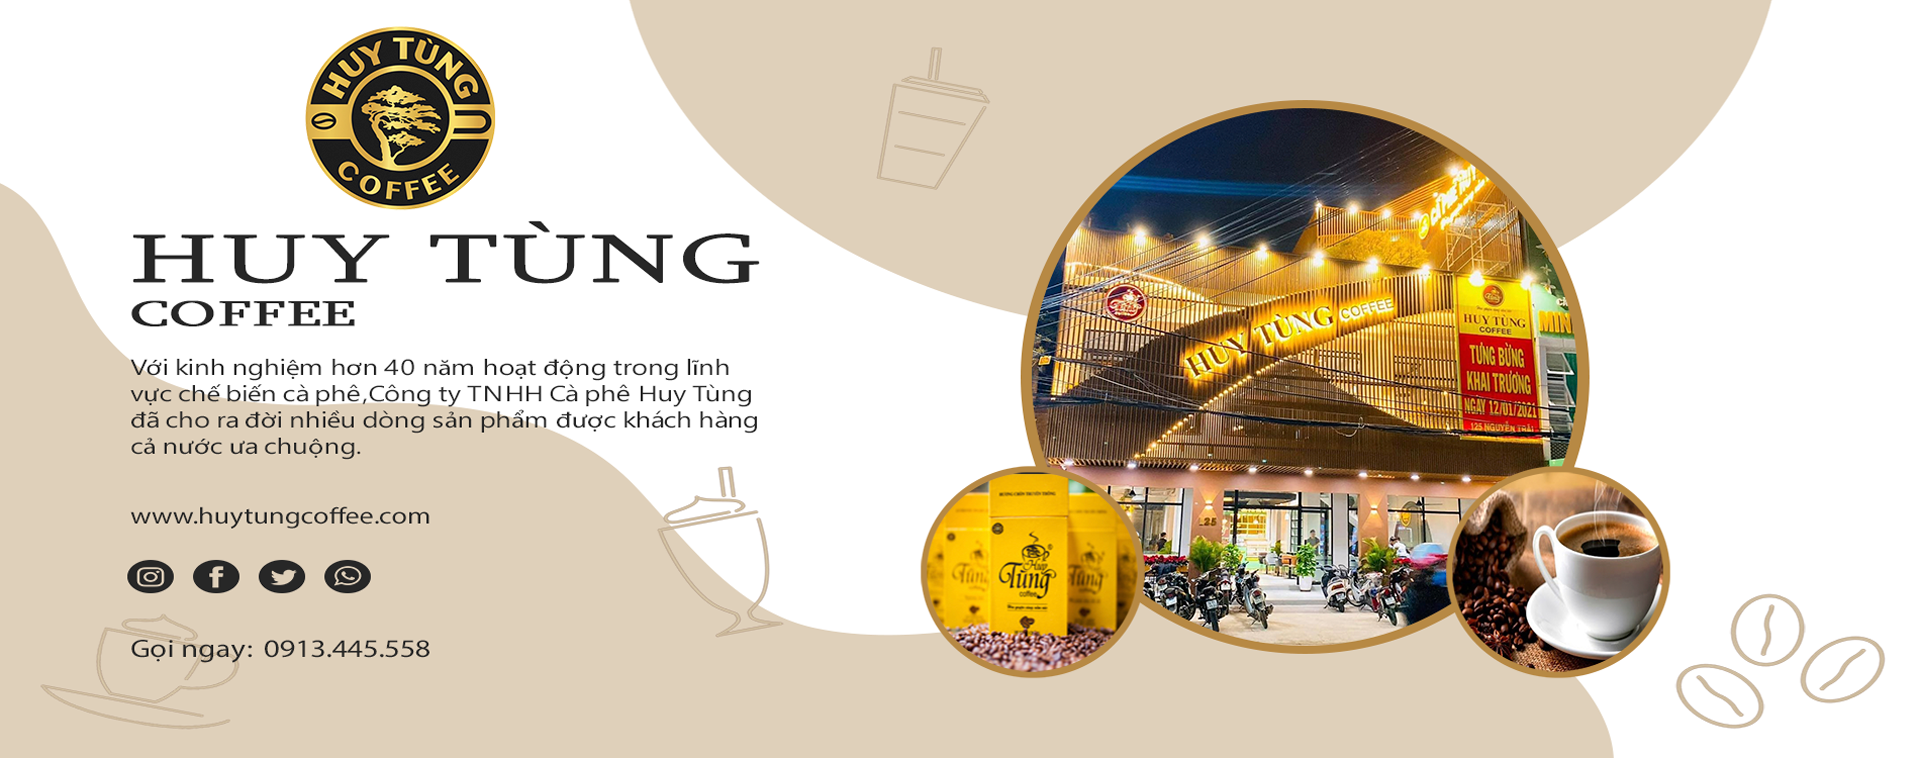
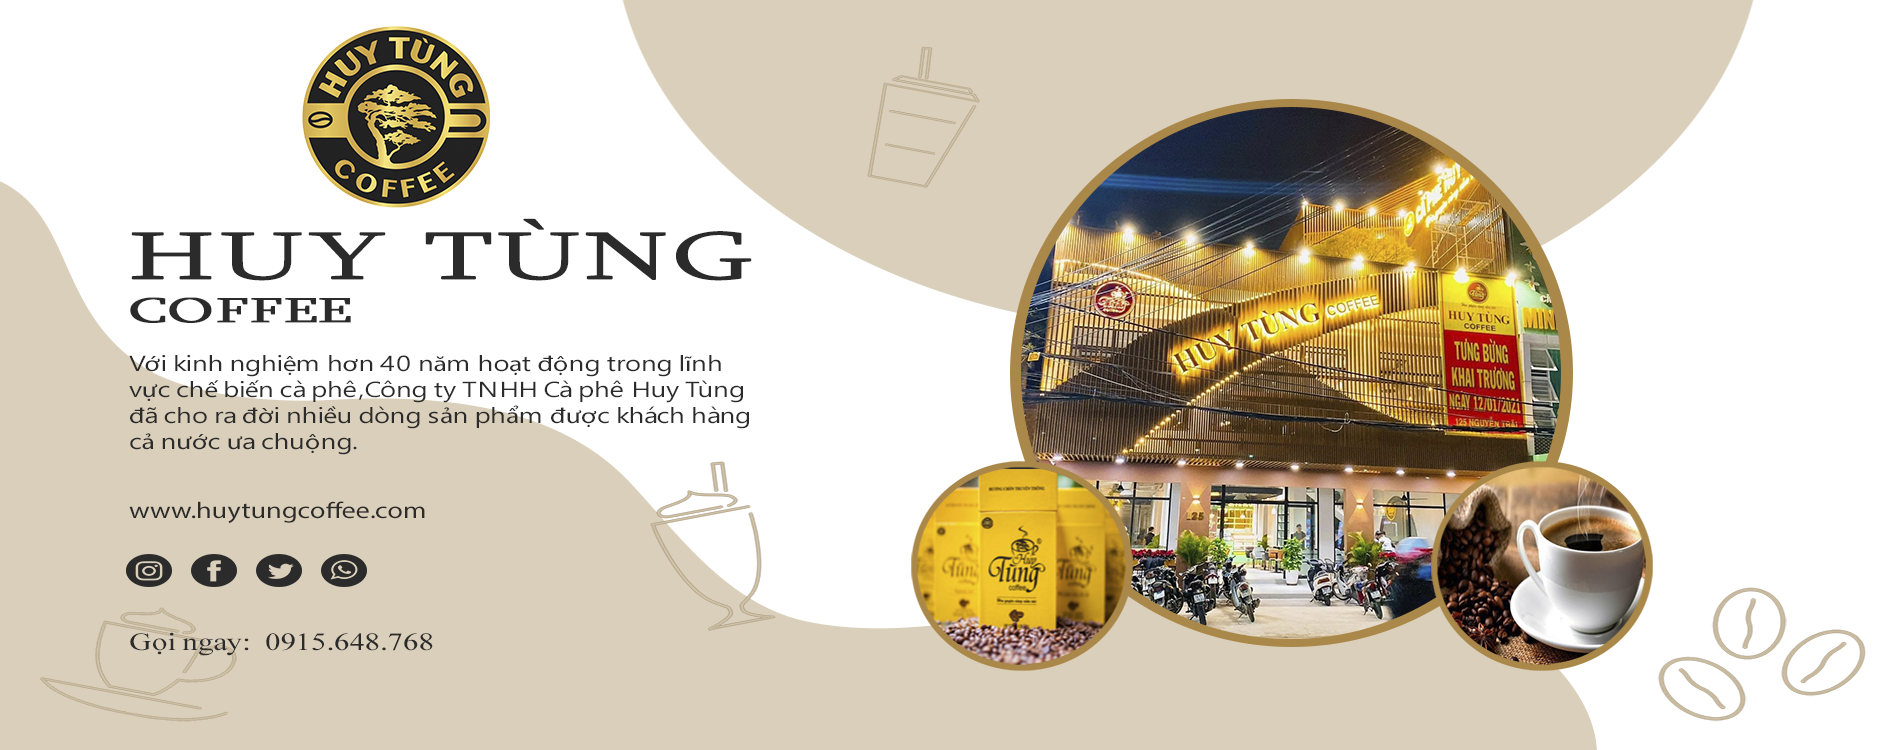
update

diff --git a/public/assets/css/module.scss.css b/public/assets/css/module.scss.css
@@ -118,7 +118,22 @@
         height: 200px;
     }
 }
+@media (min-width: 767px) {
+    .home-slider iframe {
+        height: 300px;
+    }
+}
+@media (min-width: 1023px) {
+    .home-slider iframe {
+        height: 400px;
+    }
+}
 
+@media (min-width: 1199px) {
+    .home-slider iframe {
+        height: 750px;
+    }
+}
 .section_tab_product h2 {
     font-size: 1.71429em;
     text-transform: uppercase;

diff --git a/app/Views/frontend/product/view.php b/app/Views/frontend/product/view.php
@@ -29,7 +29,7 @@
                     <div class="swiper-container gallery-top swiper-container-initialized swiper-container-horizontal">
                         <div class="swiper-wrapper" id="lightgallery" aria-live="polite">
                             <a class="swiper-slide" title="Click để xem" role="group">
-                                <img src="<?= base_url(isset($info->image->src) ? $info->image->src : "assets/images/placeholder.png") ?>" data-src="<?= base_url(isset($info->image->src) ? $info->image->src : "assets/images/placeholder.png") ?>" alt="Cà phê Trứng" data-image="<?= base_url(isset($info->image->src) ? $info->image->src : "assets/images/placeholder.png") ?>" class="img-responsive mx-auto d-block lazyload loaded" data-was-processed="true">
+                                <img src="<?= base_url(isset($info->image_url) ? $info->image_url : "assets/images/placeholder.png") ?>" data-src="<?= base_url(isset($info->image_url) ? $info->image_url : "assets/images/placeholder.png") ?>" alt="Cà phê Trứng" data-image="<?= base_url(isset($info->image_url) ? $info->image_url : "assets/images/placeholder.png") ?>" class="img-responsive mx-auto d-block lazyload loaded" data-was-processed="true">
                             </a>
                             <?php foreach ($info->image_other as $row) : ?>
                                 <a class="swiper-slide" title="Click để xem" role="group">
@@ -42,7 +42,7 @@
                     <div class="swiper-container gallery-thumbs swiper-container-initialized swiper-container-horizontal swiper-container-thumbs">
                         <div class="swiper-wrapper" id="swiper-wrapper-7123e85545c32ce7" aria-live="polite">
                             <div class="swiper-slide swiper-slide-visible swiper-slide-active swiper-slide-thumb-active" role="group">
-                                <img src="<?= base_url(isset($info->image->src) ? $info->image->src : "assets/images/placeholder.png") ?>" data-src="<?= base_url(isset($info->image->src) ? $info->image->src : "assets/images/placeholder.png") ?>" alt="Cà phê Trứng" data-image="<?= base_url(isset($info->image->src) ? $info->image->src : "assets/images/placeholder.png") ?>" class="lazyload loaded" data-was-processed="true">
+                                <img src="<?= base_url(isset($info->image_url) ? $info->image_url : "assets/images/placeholder.png") ?>" data-src="<?= base_url(isset($info->image_url) ? $info->image_url : "assets/images/placeholder.png") ?>" alt="Cà phê Trứng" data-image="<?= base_url(isset($info->image_url) ? $info->image_url : "assets/images/placeholder.png") ?>" class="lazyload loaded" data-was-processed="true">
                             </div>
                             <?php foreach ($info->image_other as $row) : ?>
                                 <div class="swiper-slide swiper-slide-visible swiper-slide-active swiper-slide-thumb-active" role="group">
@@ -60,8 +60,8 @@
                     <div class="product-single-gallery">
                         <div class="content--slide-images-2">
                             <div class="single-image">
-                                <a href="<?= base_url(isset($info->image->src) ? $info->image->src : "assets/images/placeholder.png") ?>" data-fancybox="product-log-gallery-01" tabindex="0">
-                                    <span class="h-rectangle"><span class="h-rectangle__inner h-bg-cover" style="background-image: url(<?= base_url(isset($info->image->src) ? $info->image->src : "assets/images/placeholder.png") ?>);"></span></span>
+                                <a href="<?= base_url(isset($info->image_url) ? $info->image_url : "assets/images/placeholder.png") ?>" data-fancybox="product-log-gallery-01" tabindex="0">
+                                    <span class="h-rectangle"><span class="h-rectangle__inner h-bg-cover" style="background-image: url(<?= base_url(isset($info->image_url) ? $info->image_url : "assets/images/placeholder.png") ?>);"></span></span>
                                 </a>
                             </div>
                             <?php foreach ($info->image_other as $row) : ?>
@@ -140,7 +140,7 @@
                                         <div class="product-item position-relative product-item-main mb-3">
                                             <a href="<?= url_product($row->id) ?>" class="thumb flip effect-ming d-block" title="<?= $row->{pick_language($row, 'name_')} ?>">
                                                 <div class="item-image position-relative w-100 m-0 aspect ratio1by1" wfd-id="602">
-                                                    <img src="<?= base_url(isset($row->image->src) ? $row->image->src : "assets/images/placeholder.png") ?>" data-src="<?= base_url(isset($row->image->src) ? $row->image->src : "assets/images/placeholder.png") ?>" class="d-block image-1 img img-contain position-absolute w-100 h-100 lazy" alt="<?= $row->{pick_language($row, 'name_')} ?>">
+                                                    <img src="<?= base_url(isset($row->image_url) ? $row->image_url : "assets/images/placeholder.png") ?>" data-src="<?= base_url(isset($row->image_url) ? $row->image_url : "assets/images/placeholder.png") ?>" class="d-block image-1 img img-contain position-absolute w-100 h-100 lazy" alt="<?= $row->{pick_language($row, 'name_')} ?>">
                                                     <div class="w-100 h-100 overlay" wfd-id="603"></div>
                                                 </div>
                                             </a>

diff --git a/app/Views/backend/product/edit.php b/app/Views/backend/product/edit.php
@@ -221,6 +221,7 @@
 <script src="<?= base_url("assets/lib/image_feature/jquery.image.js") ?>"></script>
 
 <!--<script src="https://cdn.ckeditor.com/ckeditor5/12.3.1/classic/ckeditor.js"></script>-->
+<script src="<?= base_url("assets/lib/ckfinder/ckfinder.js") ?>"></script>
 <script src="<?= base_url("assets/lib/ckeditor/ckeditor.js") ?>"></script>
 <script type='text/javascript'>
     var tin = <?= json_encode($tin) ?>;
@@ -236,10 +237,10 @@
             id: 'multi'
         }).on("done", function(event, ...data) {
             for (let i = 0; i < data.length; i++) {
-                let row = data[i];
-                row['image'] = '<img src="' + row['image'] + '" width="200"/>';
-
-                row['action'] = '<a href="#" class="btn btn-danger btn-sm image_remove" data-id="' + row['image_id'] + '"><i class="far fa-trash-alt"></i></a>';
+                row = [];
+                row['image'] = '<img src="' + data[i] + '" width="200"/>';
+                row['src'] = data[i];
+                row['action'] = '<a href="#" class="btn btn-danger btn-sm image_remove"><i class="far fa-trash-alt"></i></a>';
 
                 $('#quanlyimage').dataTable().fnAddData(row);
             }
@@ -279,8 +280,8 @@
             success: "valid"
         });
 
-        if (tin.image) {
-            $(".image_ft").imageFeature("set_image", tin.image);
+        if (tin.image_url) {
+            $(".image_ft").imageFeature("set_image", tin.image_url);
         }
         $("#form-dang-tin").validate({
             highlight: function(input) {

diff --git a/app/Views/lib/home/product.php b/app/Views/lib/home/product.php
@@ -15,7 +15,7 @@
                                         <div class="product-item position-relative product-item-main mb-3">
                                             <a href="<?= url_product($row->id) ?>" class="thumb flip effect-ming d-block" title="<?= $row->{pick_language($row, 'name_')} ?>">
                                                 <div class="item-image position-relative w-100 m-0 aspect ratio1by1" wfd-id="602">
-                                                    <img src="<?= base_url(isset($row->image->src) ? $row->image->src : "assets/images/placeholder.png") ?>" data-src="<?= base_url(isset($row->image->src) ? $row->image->src : "assets/images/placeholder.png") ?>" class="d-block image-1 img img-contain position-absolute w-100 h-100 lazy" alt="<?= $row->{pick_language($row, 'name_')} ?>">
+                                                    <img src="<?= base_url(isset($row->image_url) ? $row->image_url : "assets/images/placeholder.png") ?>" data-src="<?= base_url(isset($row->image_url) ? $row->image_url : "assets/images/placeholder.png") ?>" class="d-block image-1 img img-contain position-absolute w-100 h-100 lazy" alt="<?= $row->{pick_language($row, 'name_')} ?>">
                                                     <div class="w-100 h-100 overlay" wfd-id="603"></div>
                                                 </div>
                                             </a>

diff --git a/app/Views/frontend/product/search.php b/app/Views/frontend/product/search.php
@@ -38,7 +38,7 @@
                                     <div class="product-item position-relative product-item-main" style="">
                                         <a href="<?= url_product($row->product_id) ?>" class="thumb flip effect-ming d-block" title="<?= $row->{pick_language($row, 'name_')} ?>">
                                             <div class="item-image position-relative w-100 m-0 aspect ratio1by1" wfd-id="602">
-                                                <img src="<?= base_url(isset($row->image->src) ? $row->image->src : "assets/images/placeholder.png") ?>" data-src="<?= base_url(isset($row->image->src) ? $row->image->src : "assets/images/placeholder.png") ?>" class="d-block image-1 img img-contain position-absolute w-100 h-100 lazy" alt="<?= $row->{pick_language($row, 'name_')} ?>">
+                                                <img src="<?= base_url(isset($row->image_url) ? $row->image_url : "assets/images/placeholder.png") ?>" data-src="<?= base_url(isset($row->image_url) ? $row->image_url : "assets/images/placeholder.png") ?>" class="d-block image-1 img img-contain position-absolute w-100 h-100 lazy" alt="<?= $row->{pick_language($row, 'name_')} ?>">
                                                 <div class="w-100 h-100 overlay" wfd-id="603"></div>
                                             </div>
                                         </a>

diff --git a/app/Views/frontend/product/productview.php b/app/Views/frontend/product/productview.php
@@ -38,7 +38,7 @@
                                     <div class="product-item position-relative product-item-main">
                                         <a href="<?= url_product($row->product_id) ?>" class="thumb flip effect-ming d-block" title="<?= $row->{pick_language($row, 'name_')} ?>">
                                             <div class="item-image position-relative w-100 m-0 aspect ratio1by1" wfd-id="602">
-                                                <img src="<?= base_url(isset($row->image->src) ? $row->image->src : "assets/images/placeholder.png") ?>" data-src="<?= base_url(isset($row->image->src) ? $row->image->src : "assets/images/placeholder.png") ?>" class="d-block image-1 img img-contain position-absolute w-100 h-100 lazy" alt="<?= $row->{pick_language($row, 'name_')} ?>">
+                                                <img src="<?= base_url(isset($row->image_url) ? $row->image_url : "assets/images/placeholder.png") ?>" data-src="<?= base_url(isset($row->image_url) ? $row->image_url : "assets/images/placeholder.png") ?>" class="d-block image-1 img img-contain position-absolute w-100 h-100 lazy" alt="<?= $row->{pick_language($row, 'name_')} ?>">
                                                 <div class="w-100 h-100 overlay" wfd-id="603"></div>
                                             </div>
                                         </a>

diff --git a/app/Views/frontend/product/index.php b/app/Views/frontend/product/index.php
@@ -40,7 +40,7 @@
                                             <div class="product_mini_2 clearfix">
                                                 <div class="img_product">
                                                     <a class="product-img" href="<?= url_product($row->id) ?>" title="<?= $row->{pick_language($row, 'name_')} ?>">
-                                                        <img class="lazyload loaded" src="<?= base_url(isset($row->image->src) ? $row->image->src : "assets/images/placeholder.png") ?>" data-src="<?= base_url(isset($row->image->src) ? $row->image->src : "assets/images/placeholder.png") ?>" alt="<?= $row->{pick_language($row, 'name_')} ?>" data-was-processed="true">
+                                                        <img class="lazyload loaded" src="<?= base_url(isset($row->image_url) ? $row->image_url : "assets/images/placeholder.png") ?>" data-src="<?= base_url(isset($row->image_url) ? $row->image_url : "assets/images/placeholder.png") ?>" alt="<?= $row->{pick_language($row, 'name_')} ?>" data-was-processed="true">
                                                     </a>
                                                 </div>
                                                 <div class="product-info">

diff --git a/app/Views/frontend/product/menuview.php b/app/Views/frontend/product/menuview.php
@@ -40,7 +40,7 @@
                                             <div class="product_mini_2 clearfix">
                                                 <div class="img_product">
                                                     <a class="product-img" title="<?= $row->{pick_language($row, 'name_')} ?>">
-                                                        <img class="lazyload loaded" src="<?= base_url(isset($row->image->src) ? $row->image->src : "assets/images/placeholder.png") ?>" data-src="<?= base_url(isset($row->image->src) ? $row->image->src : "assets/images/placeholder.png") ?>" alt="<?= $row->{pick_language($row, 'name_')} ?>" data-was-processed="true">
+                                                        <img class="lazyload loaded" src="<?= base_url(isset($row->image_url) ? $row->image_url : "assets/images/placeholder.png") ?>" data-src="<?= base_url(isset($row->image_url) ? $row->image_url : "assets/images/placeholder.png") ?>" alt="<?= $row->{pick_language($row, 'name_')} ?>" data-was-processed="true">
                                                     </a>
                                                 </div>
                                                 <div class="product-info">

diff --git a/app/Views/backend/product/add.php b/app/Views/backend/product/add.php
@@ -210,6 +210,7 @@
 <script src="<?= base_url("assets/lib/image_feature/jquery.image.js") ?>"></script>
 
 <!--<script src="https://cdn.ckeditor.com/ckeditor5/12.3.1/classic/ckeditor.js"></script>-->
+<script src="<?= base_url("assets/lib/ckfinder/ckfinder.js") ?>"></script>
 <script src="<?= base_url("assets/lib/ckeditor/ckeditor.js") ?>"></script>
 <script type='text/javascript'>
     var allEditors = document.querySelectorAll('.edit');
@@ -238,10 +239,10 @@
             id: 'multi'
         }).on("done", function(event, ...data) {
             for (let i = 0; i < data.length; i++) {
-                let row = data[i];
-                row['image'] = '<img src="' + row['image'] + '" width="200"/>';
-
-                row['action'] = '<a href="#" class="btn btn-danger btn-sm image_remove" data-id="' + row['image_id'] + '"><i class="far fa-trash-alt"></i></a>';
+                row = [];
+                row['image'] = '<img src="' + data[i] + '" width="200"/>';
+                row['src'] = data[i];
+                row['action'] = '<a href="#" class="btn btn-danger btn-sm image_remove"><i class="far fa-trash-alt"></i></a>';
 
                 $('#quanlyimage').dataTable().fnAddData(row);
             }

diff --git a/app/Controllers/Admin/Product.php b/app/Controllers/Admin/Product.php
@@ -191,14 +191,13 @@ class Product extends BaseController
         //echo "<pre>";
         //print_r($posts);
         //die();
-        $posts = $Product_model->image($posts);
         $data = array();
         if (!empty($posts)) {
             foreach ($posts as $post) {
                 $nestedData['id'] = $post->id;
                 $nestedData['name_vi'] = $post->name_vi;
                 $nestedData['code'] = $post->code;
-                $image = isset($post->image->src) ? base_url($post->image->src) : "";
+                $image = base_url($post->image_url);
                 $nestedData['image'] = "<img src='$image' width='100'/>";
                 $nestedData['price'] =  number_format($post->price, 0, ",", ".") . "đ";
                 // $image = isset($post->image->src) ? base_url() . $post->image->src : "";

diff --git a/app/Models/ProductModel.php b/app/Models/ProductModel.php
@@ -13,7 +13,7 @@ class ProductModel extends Model
     protected $returnType     = 'App\Entities\Product';
     protected $useSoftDeletes = true;
 
-    protected $allowedFields = ['slug', 'code', 'price', 'name_vi', 'description_vi', 'element_vi', 'uses_vi', 'guide_vi', 'name_en', 'description_en', 'element_en', 'uses_en', 'guide_en', 'name_jp', 'description_jp', 'element_jp', 'uses_jp', 'guide_jp', 'date', 'user_id', 'image_id'];
+    protected $allowedFields = ['slug', 'code', 'price', 'name_vi', 'description_vi', 'element_vi', 'uses_vi', 'guide_vi', 'name_en', 'description_en', 'element_en', 'uses_en', 'guide_en', 'name_jp', 'description_jp', 'element_jp', 'uses_jp', 'guide_jp', 'date', 'user_id', 'image_id', 'image_url'];
 
 
 

diff --git a/app/Views/lib/home/footer.php b/app/Views/lib/home/footer.php
@@ -27,14 +27,14 @@
         <div class="hotline-phone-ring-circle"></div>
         <div class="hotline-phone-ring-circle-fill"></div>
         <div class="hotline-phone-ring-img-circle">
-            <a href="tel:0353928135" class="pps-btn-img">
+            <a href="tel:0915.648.768" class="pps-btn-img">
                 <img src="<?= base_url("assets/images/icon-2.png") ?>" alt="Số điện thoại" width="50">
             </a>
         </div>
     </div>
     <div class="hotline-bar">
-        <a href="tel:0353928135">
-            <span class="text-hotline">035.392.8135</span>
+        <a href="tel:0915.648.768">
+            <span class="text-hotline">0915.648.768</span>
         </a>
     </div>
 </div>
